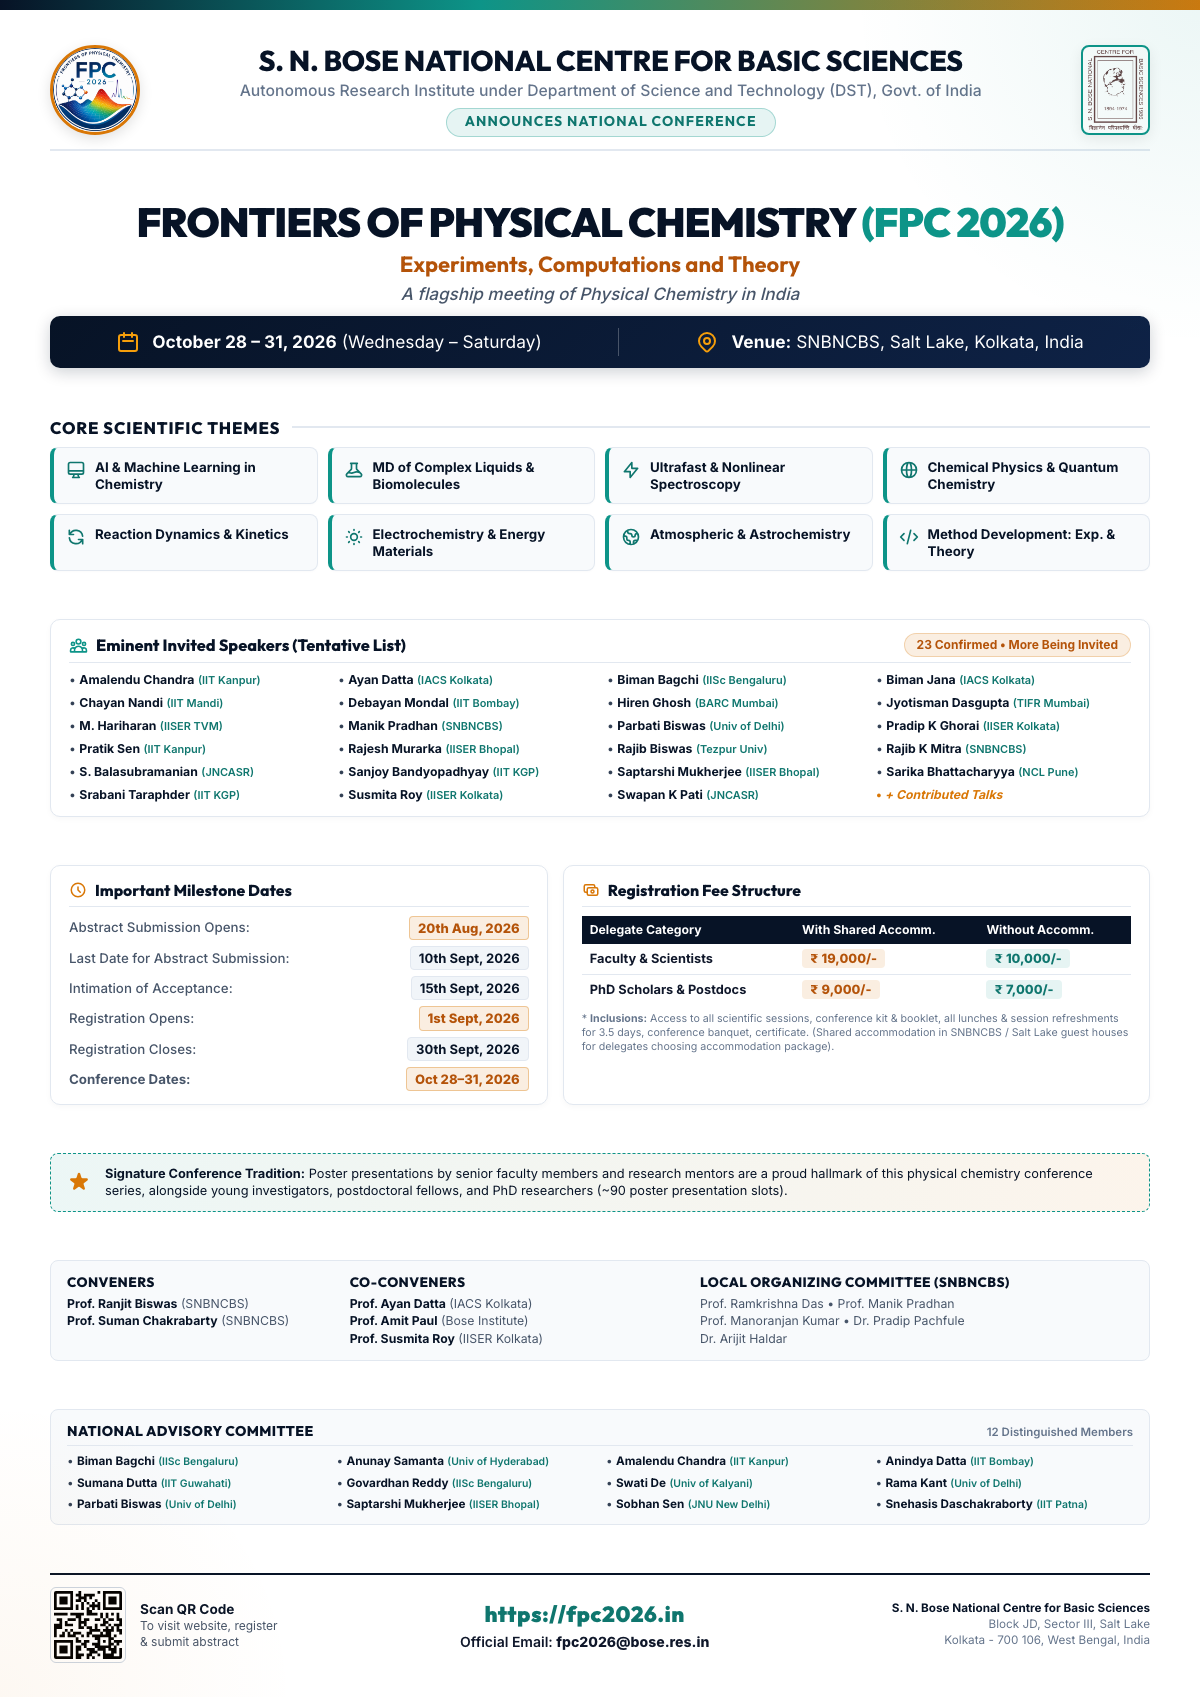
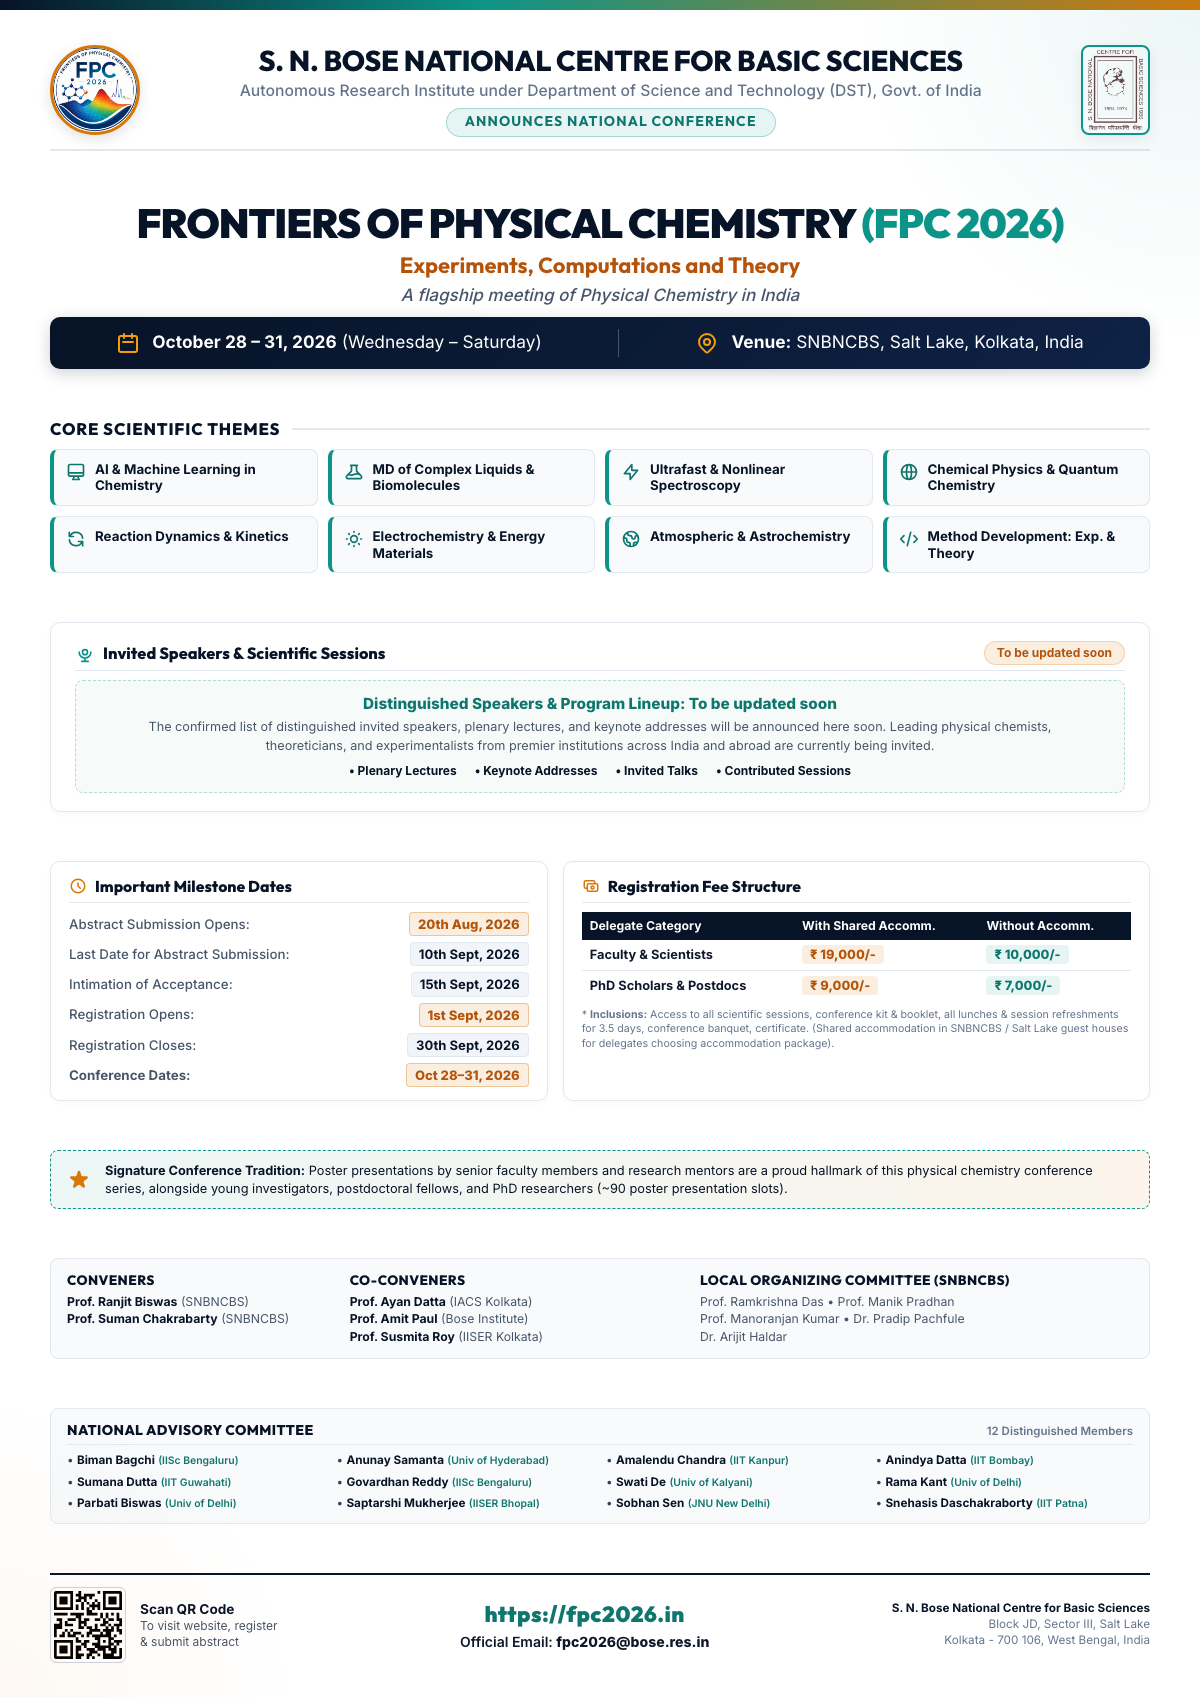
Hide invited speakers list on website and flyer, show To be updated soon for speakers and posters

diff --git a/index.html b/index.html
@@ -408,57 +408,55 @@
       <div class="presenter-tabs-nav">
         <button class="presenter-tab-btn active" data-tab="tab-speakers">
           <span>Invited Speakers</span>
-          <span class="presenter-tab-badge">23</span>
+          <span class="presenter-tab-badge">To be updated soon</span>
         </button>
         <button class="presenter-tab-btn" data-tab="tab-posters">
           <span>Poster Presenters</span>
-          <span class="presenter-tab-badge">Tentative</span>
+          <span class="presenter-tab-badge">To be updated soon</span>
         </button>
       </div>
 
-      <!-- Tab Pane 1: Invited Speakers (23 Sorted Alphabetically) -->
+      <!-- Tab Pane 1: Invited Speakers -->
       <div class="presenter-pane active" id="tab-speakers">
-        <div class="speakers-toolbar">
-          <div class="speaker-search-box">
-            <svg class="speaker-search-icon" fill="none" stroke="currentColor" viewBox="0 0 24 24">
-              <path stroke-linecap="round" stroke-linejoin="round" stroke-width="2" d="M21 21l-6-6m2-5a7 7 0 11-14 0 7 7 0 0114 0z"></path>
+        <div style="background: var(--bg-surface); border: 2px dashed var(--border-light); border-radius: var(--radius-lg); padding: 3.5rem 2rem; max-width: 820px; margin: 0 auto; text-align: center; box-shadow: var(--shadow-sm);">
+          <div style="width: 58px; height: 58px; border-radius: 50%; background: rgba(13, 148, 136, 0.12); color: var(--accent-teal); display: flex; align-items: center; justify-content: center; margin: 0 auto 1.25rem auto;">
+            <svg style="width: 30px; height: 30px;" fill="none" stroke="currentColor" viewBox="0 0 24 24">
+              <path stroke-linecap="round" stroke-linejoin="round" stroke-width="2" d="M19 11a7 7 0 01-7 7m0 0a7 7 0 01-7-7m7 7v4m0 0H8m4 0h4m-4-8a3 3 0 100-6 3 3 0 000 6z"></path>
             </svg>
-            <input type="text" id="speaker-search" class="speaker-search-input" placeholder="Search speakers by name, institute or topic...">
           </div>
-          <div>
-            <span id="speakers-count" style="font-size: 0.9rem; font-weight: 600; color: var(--text-subtle);">Loading speakers...</span>
-          </div>
-        </div>
-
-        <div class="speakers-grid" id="speakers-grid">
-          <!-- Rendered dynamically by js/speakers.js -->
-        </div>
-
-        <div class="speakers-footer-note">
-          <p>
-            <strong>Note:</strong> Several other eminent invited speakers, young faculty members, and post-doctoral researchers are currently being invited. The complete scientific talk titles and abstract book will be published in due course.
+          <h3 style="font-size: 1.6rem; color: var(--primary-900); margin-bottom: 0.75rem;">
+            Invited Speakers
+          </h3>
+          <p style="font-size: 1.2rem; color: var(--accent-teal-dark); font-weight: 700; margin-bottom: 1rem;">
+            To be updated soon
           </p>
+          <p style="color: var(--text-muted); font-size: 0.98rem; max-width: 640px; margin: 0 auto 1.5rem auto; line-height: 1.65;">
+            The confirmed list of distinguished invited speakers, plenary lectures, and keynote addresses will be announced here soon. Eminent physical chemists, theoreticians, and experimentalists from premier institutions across India and abroad are currently being invited.
+          </p>
+          <div style="display: inline-flex; align-items: center; gap: 0.5rem; padding: 0.4rem 1.1rem; border-radius: var(--radius-full); background: rgba(13, 148, 136, 0.1); color: var(--accent-teal-dark); font-weight: 600; font-size: 0.88rem;">
+            <span>Invited Lectures &bull; Plenary Talks &bull; Young Investigator Sessions</span>
+          </div>
         </div>
       </div>
 
-      <!-- Tab Pane 2: Poster Presenters (Tentative) -->
+      <!-- Tab Pane 2: Poster Presenters -->
       <div class="presenter-pane" id="tab-posters">
         <div style="background: var(--bg-surface); border: 2px dashed var(--border-light); border-radius: var(--radius-lg); padding: 3.5rem 2rem; max-width: 820px; margin: 0 auto; text-align: center; box-shadow: var(--shadow-sm);">
-          <div style="width: 54px; height: 54px; border-radius: 50%; background: rgba(217, 119, 6, 0.12); color: var(--accent-gold); display: flex; align-items: center; justify-content: center; margin: 0 auto 1.25rem auto;">
-            <svg style="width: 28px; height: 28px;" fill="none" stroke="currentColor" viewBox="0 0 24 24">
+          <div style="width: 58px; height: 58px; border-radius: 50%; background: rgba(217, 119, 6, 0.12); color: var(--accent-gold); display: flex; align-items: center; justify-content: center; margin: 0 auto 1.25rem auto;">
+            <svg style="width: 30px; height: 30px;" fill="none" stroke="currentColor" viewBox="0 0 24 24">
               <path stroke-linecap="round" stroke-linejoin="round" stroke-width="2" d="M19 11H5m14 0a2 2 0 012 2v6a2 2 0 01-2 2H5a2 2 0 01-2-2v-6a2 2 0 012-2m14 0V9a2 2 0 00-2-2M5 11V9a2 2 0 012-2m0 0V5a2 2 0 012-2h6a2 2 0 012 2v2M7 7h10"></path>
             </svg>
           </div>
           <h3 style="font-size: 1.6rem; color: var(--primary-900); margin-bottom: 0.75rem;">
-            Invited Poster Presenters (Tentative)
+            Poster Presenters
           </h3>
-          <p style="font-size: 1.15rem; color: var(--accent-gold-hover); font-weight: 600; margin-bottom: 1rem;">
-            To be updated shortly
+          <p style="font-size: 1.2rem; color: var(--accent-gold-hover); font-weight: 700; margin-bottom: 1rem;">
+            To be updated soon
           </p>
-          <p style="color: var(--text-muted); font-size: 0.95rem; max-width: 620px; margin: 0 auto 1.5rem auto; line-height: 1.6;">
-            Poster presentations by senior faculty members and research mentors are a signature feature of this conference series. The tentative list of invited poster presenters and contributed abstract slots (~90 presentations) will be announced here soon.
+          <p style="color: var(--text-muted); font-size: 0.98rem; max-width: 640px; margin: 0 auto 1.5rem auto; line-height: 1.65;">
+            Poster presentations by senior faculty members and research mentors are a signature feature of this conference series. The list of invited poster presenters and contributed abstract presentation slots (~90 presentations) will be announced here soon.
           </p>
-          <div style="display: inline-flex; align-items: center; gap: 0.5rem; padding: 0.4rem 1rem; border-radius: var(--radius-full); background: rgba(13, 148, 136, 0.1); color: var(--accent-teal-dark); font-weight: 600; font-size: 0.85rem;">
+          <div style="display: inline-flex; align-items: center; gap: 0.5rem; padding: 0.4rem 1.1rem; border-radius: var(--radius-full); background: rgba(217, 119, 6, 0.1); color: var(--accent-gold-hover); font-weight: 600; font-size: 0.88rem;">
             <span>Poster Display Boards: A0 Portrait (841 mm × 1189 mm)</span>
           </div>
         </div>

diff --git a/flyer.html b/flyer.html
@@ -157,43 +157,31 @@
         </div>
       </section>
 
-      <!-- 4. Eminent Confirmed Invited Speakers Showcase -->
-      <div style="background: #ffffff; border: 1px solid var(--border-light); border-radius: 6px; padding: 6px 10px; margin-bottom: 8px;">
+      <!-- 4. Scientific Sessions & Invited Lectures -->
+      <div style="background: #ffffff; border: 1px solid var(--border-light); border-radius: 6px; padding: 7px 10px; margin-bottom: 8px;">
         <div style="display: flex; align-items: center; justify-content: space-between; margin-bottom: 4px; padding-bottom: 3px; border-bottom: 1px solid var(--border-light);">
           <div style="font-family: var(--font-heading); font-size: 7.8pt; font-weight: 800; color: var(--primary-900); display: flex; align-items: center; gap: 4px;">
-            <svg style="width: 12px; height: 12px; color: var(--secondary-600);" fill="none" stroke="currentColor" viewBox="0 0 24 24">
-              <path stroke-linecap="round" stroke-linejoin="round" stroke-width="2" d="M17 20h5v-2a3 3 0 00-5.356-1.857M17 20H7m10 0v-2c0-.656-.126-1.283-.356-1.857M7 20H2v-2a3 3 0 015.356-1.857M7 20v-2c0-.656.126-1.283.356-1.857m0 0a5.002 5.002 0 019.288 0M15 7a3 3 0 11-6 0 3 3 0 016 0zm6 3a2 2 0 11-4 0 2 2 0 014 0zM7 10a2 2 0 11-4 0 2 2 0 014 0z"></path>
+            <svg style="width: 13px; height: 13px; color: var(--secondary-600);" fill="none" stroke="currentColor" viewBox="0 0 24 24">
+              <path stroke-linecap="round" stroke-linejoin="round" stroke-width="2" d="M19 11a7 7 0 01-7 7m0 0a7 7 0 01-7-7m7 7v4m0 0H8m4 0h4m-4-8a3 3 0 100-6 3 3 0 000 6z"></path>
             </svg>
-            <span>Eminent Invited Speakers (Tentative List)</span>
+            <span>Invited Speakers & Scientific Sessions</span>
           </div>
-          <span style="font-size: 6.8pt; font-weight: 700; color: #b45309; background: rgba(217, 119, 6, 0.12); padding: 1px 6px; border-radius: 999px;">23 Confirmed &bull; More Being Invited</span>
+          <span style="font-size: 6.8pt; font-weight: 700; color: #0f766e; background: rgba(13, 148, 136, 0.1); padding: 1px 6px; border-radius: 999px;">To be updated soon</span>
         </div>
 
-        <div style="display: grid; grid-template-columns: repeat(4, 1fr); gap: 3px 6px; font-size: 6.8pt; line-height: 1.25;">
-          <div>&bull; <strong>Amalendu Chandra</strong> <span style="color: #0f766e;">(IITK)</span></div>
-          <div>&bull; <strong>Ayan Datta</strong> <span style="color: #0f766e;">(IACS)</span></div>
-          <div>&bull; <strong>Biman Bagchi</strong> <span style="color: #0f766e;">(IISc)</span></div>
-          <div>&bull; <strong>Biman Jana</strong> <span style="color: #0f766e;">(IACS)</span></div>
-          <div>&bull; <strong>Chayan Nandi</strong> <span style="color: #0f766e;">(IIT Mandi)</span></div>
-          <div>&bull; <strong>Debayan Mondal</strong> <span style="color: #0f766e;">(IITB)</span></div>
-          <div>&bull; <strong>Hiren Ghosh</strong> <span style="color: #0f766e;">(BARC)</span></div>
-          <div>&bull; <strong>Jyotisman Dasgupta</strong> <span style="color: #0f766e;">(TIFR)</span></div>
-          <div>&bull; <strong>M. Hariharan</strong> <span style="color: #0f766e;">(IISER TVM)</span></div>
-          <div>&bull; <strong>Manik Pradhan</strong> <span style="color: #0f766e;">(SNBNCBS)</span></div>
-          <div>&bull; <strong>Parbati Biswas</strong> <span style="color: #0f766e;">(DU)</span></div>
-          <div>&bull; <strong>Pradip K Ghorai</strong> <span style="color: #0f766e;">(IISER-K)</span></div>
-          <div>&bull; <strong>Pratik Sen</strong> <span style="color: #0f766e;">(IITK)</span></div>
-          <div>&bull; <strong>Rajesh Murarka</strong> <span style="color: #0f766e;">(IISER-B)</span></div>
-          <div>&bull; <strong>Rajib Biswas</strong> <span style="color: #0f766e;">(Tezpur)</span></div>
-          <div>&bull; <strong>Rajib K Mitra</strong> <span style="color: #0f766e;">(SNBNCBS)</span></div>
-          <div>&bull; <strong>S. Balasubramanian</strong> <span style="color: #0f766e;">(JNCASR)</span></div>
-          <div>&bull; <strong>Sanjoy Bandyopadhyay</strong> <span style="color: #0f766e;">(IIT KGP)</span></div>
-          <div>&bull; <strong>Saptarshi Mukherjee</strong> <span style="color: #0f766e;">(IISER-B)</span></div>
-          <div>&bull; <strong>Sarika Bhattacharyya</strong> <span style="color: #0f766e;">(NCL)</span></div>
-          <div>&bull; <strong>Srabani Taraphder</strong> <span style="color: #0f766e;">(IIT KGP)</span></div>
-          <div>&bull; <strong>Susmita Roy</strong> <span style="color: #0f766e;">(IISER-K)</span></div>
-          <div>&bull; <strong>Swapan K Pati</strong> <span style="color: #0f766e;">(JNCASR)</span></div>
-          <div style="color: #d97706; font-weight: 700;">&bull; <em>+ Contributed Talks</em></div>
+        <div style="text-align: center; padding: 4px 6px; background: rgba(13, 148, 136, 0.04); border-radius: 4px; border: 1px dashed rgba(13, 148, 136, 0.25);">
+          <p style="font-size: 7.2pt; font-weight: 700; color: #0f766e; margin-bottom: 2px;">
+            Invited Speakers & Program Schedule: To be updated soon
+          </p>
+          <p style="font-size: 6.5pt; color: var(--text-muted); line-height: 1.35; margin: 0 auto;">
+            The list of distinguished invited speakers, plenary lectures, and keynote addresses will be announced shortly. Eminent physical chemists from premier institutions across India and abroad are being invited.
+          </p>
+          <div style="display: flex; justify-content: center; gap: 10px; margin-top: 3px; font-size: 6.2pt; font-weight: 600; color: var(--primary-900);">
+            <span>&bull; Plenary Lectures</span>
+            <span>&bull; Keynote Talks</span>
+            <span>&bull; Invited Lectures</span>
+            <span>&bull; Contributed Sessions</span>
+          </div>
         </div>
       </div>
 

diff --git a/flyer-image.html b/flyer-image.html
@@ -739,48 +739,31 @@
       </div>
     </section>
 
-    <!-- 4. Eminent Confirmed Invited Speakers Showcase -->
-    <section class="speakers-section">
+    <!-- 4. Scientific Sessions & Invited Lectures -->
+    <section class="speakers-section" style="padding: 18px 24px;">
       <div class="speakers-header">
         <div class="speakers-header-title">
-          <svg style="width: 19px; height: 19px; color: #0d9488;" fill="none" stroke="currentColor" viewBox="0 0 24 24">
-            <path stroke-linecap="round" stroke-linejoin="round" stroke-width="2" d="M17 20h5v-2a3 3 0 00-5.356-1.857M17 20H7m10 0v-2c0-.656-.126-1.283-.356-1.857M7 20H2v-2a3 3 0 015.356-1.857M7 20v-2c0-.656.126-1.283.356-1.857m0 0a5.002 5.002 0 019.288 0M15 7a3 3 0 11-6 0 3 3 0 016 0zm6 3a2 2 0 11-4 0 2 2 0 014 0zM7 10a2 2 0 11-4 0 2 2 0 014 0z"></path>
+          <svg style="width: 20px; height: 20px; color: #0d9488;" fill="none" stroke="currentColor" viewBox="0 0 24 24">
+            <path stroke-linecap="round" stroke-linejoin="round" stroke-width="2" d="M19 11a7 7 0 01-7 7m0 0a7 7 0 01-7-7m7 7v4m0 0H8m4 0h4m-4-8a3 3 0 100-6 3 3 0 000 6z"></path>
           </svg>
-          <span>Eminent Invited Speakers (Tentative List)</span>
+          <span>Invited Speakers & Scientific Sessions</span>
         </div>
-        <span class="speakers-tag">23 Confirmed &bull; More Being Invited</span>
+        <span class="speakers-tag">To be updated soon</span>
       </div>
 
-      <div class="speakers-grid-list">
-        <div class="speaker-item">&bull; <strong>Amalendu Chandra</strong> <span>(IIT Kanpur)</span></div>
-        <div class="speaker-item">&bull; <strong>Ayan Datta</strong> <span>(IACS Kolkata)</span></div>
-        <div class="speaker-item">&bull; <strong>Biman Bagchi</strong> <span>(IISc Bengaluru)</span></div>
-        <div class="speaker-item">&bull; <strong>Biman Jana</strong> <span>(IACS Kolkata)</span></div>
-        
-        <div class="speaker-item">&bull; <strong>Chayan Nandi</strong> <span>(IIT Mandi)</span></div>
-        <div class="speaker-item">&bull; <strong>Debayan Mondal</strong> <span>(IIT Bombay)</span></div>
-        <div class="speaker-item">&bull; <strong>Hiren Ghosh</strong> <span>(BARC Mumbai)</span></div>
-        <div class="speaker-item">&bull; <strong>Jyotisman Dasgupta</strong> <span>(TIFR Mumbai)</span></div>
-        
-        <div class="speaker-item">&bull; <strong>M. Hariharan</strong> <span>(IISER TVM)</span></div>
-        <div class="speaker-item">&bull; <strong>Manik Pradhan</strong> <span>(SNBNCBS)</span></div>
-        <div class="speaker-item">&bull; <strong>Parbati Biswas</strong> <span>(Univ of Delhi)</span></div>
-        <div class="speaker-item">&bull; <strong>Pradip K Ghorai</strong> <span>(IISER Kolkata)</span></div>
-        
-        <div class="speaker-item">&bull; <strong>Pratik Sen</strong> <span>(IIT Kanpur)</span></div>
-        <div class="speaker-item">&bull; <strong>Rajesh Murarka</strong> <span>(IISER Bhopal)</span></div>
-        <div class="speaker-item">&bull; <strong>Rajib Biswas</strong> <span>(Tezpur Univ)</span></div>
-        <div class="speaker-item">&bull; <strong>Rajib K Mitra</strong> <span>(SNBNCBS)</span></div>
-        
-        <div class="speaker-item">&bull; <strong>S. Balasubramanian</strong> <span>(JNCASR)</span></div>
-        <div class="speaker-item">&bull; <strong>Sanjoy Bandyopadhyay</strong> <span>(IIT KGP)</span></div>
-        <div class="speaker-item">&bull; <strong>Saptarshi Mukherjee</strong> <span>(IISER Bhopal)</span></div>
-        <div class="speaker-item">&bull; <strong>Sarika Bhattacharyya</strong> <span>(NCL Pune)</span></div>
-        
-        <div class="speaker-item">&bull; <strong>Srabani Taraphder</strong> <span>(IIT KGP)</span></div>
-        <div class="speaker-item">&bull; <strong>Susmita Roy</strong> <span>(IISER Kolkata)</span></div>
-        <div class="speaker-item">&bull; <strong>Swapan K Pati</strong> <span>(JNCASR)</span></div>
-        <div class="speaker-item" style="color: #d97706; font-weight: 700;">&bull; <em>+ Contributed Talks</em></div>
+      <div style="padding: 12px 16px; background: rgba(13, 148, 136, 0.04); border-radius: 8px; border: 1.5px dashed rgba(13, 148, 136, 0.3); text-align: center;">
+        <p style="font-size: 11.5pt; font-weight: 800; color: #0f766e; margin-bottom: 4px;">
+          Distinguished Speakers & Program Lineup: To be updated soon
+        </p>
+        <p style="font-size: 9.5pt; color: #475569; line-height: 1.45; margin: 0 auto; max-width: 920px;">
+          The confirmed list of distinguished invited speakers, plenary lectures, and keynote addresses will be announced here soon. Leading physical chemists, theoreticians, and experimentalists from premier institutions across India and abroad are currently being invited.
+        </p>
+        <div style="display: flex; justify-content: center; gap: 18px; margin-top: 8px; font-size: 9pt; font-weight: 700; color: #071326;">
+          <span>&bull; Plenary Lectures</span>
+          <span>&bull; Keynote Addresses</span>
+          <span>&bull; Invited Talks</span>
+          <span>&bull; Contributed Sessions</span>
+        </div>
       </div>
     </section>
 
